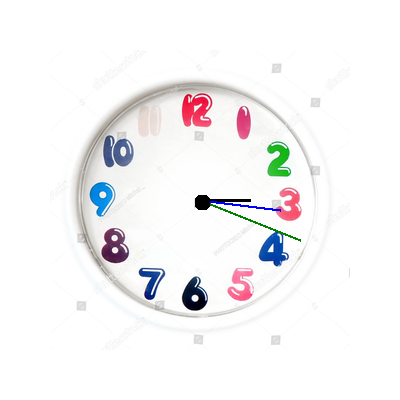
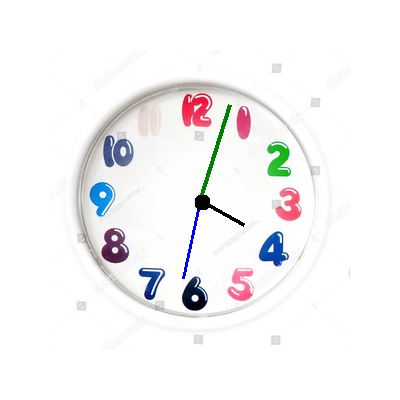
Analouge clock is added in login form

Changed region(s): [[0.48, 0.27, 0.69, 0.6], [0.66, 0.57, 0.75, 0.6], [0.45, 0.6, 0.48, 0.69]]

diff --git a/login.py b/login.py
@@ -1,5 +1,8 @@
 from tkinter import*
+from datetime import *
+import time
 from PIL import Image,ImageTk,ImageDraw
+from math import*
 class Clock():
     def __init__(self,root):
         self.root=root
@@ -8,10 +11,11 @@ class Clock():
         self.root.config(bg="#021e2f")
         title=Label(self.root,text="Login Page",font=("times new roman",50,"bold"),bg="#04444a",fg="white").place(x=0,y=50,relwidth=1)
         #label to place the clock image
-        self.lbl=Label(self.root,bg="white")
+        self.lbl=Label(self.root,bg="white",bd=10,relief=RAISED)
         self.lbl.place(x=450,y=150,height=400,width=400)
-        self.clock_image()
-    def clock_image(self):
+        # self.clock_image()
+        self.working_clock()
+    def clock_image(self,hr,min_,sec_):
         #for clock Image
         clock=Image.new("RGB",(400,400),(255,255,255)) #create new empty image first size secod color
         draw=ImageDraw.Draw(clock) # draw new image
@@ -20,18 +24,30 @@ class Clock():
         clock.paste(bg,(50,50))#paste the image on new image which is create
         
         # for hour line image
-        draw.line((200,200,250,200),fill="black",width=3)
+        #           x1,y1,x2,y2
+        origin=200,200
+        draw.line((origin,200+50*sin(radians(hr)),200-50*cos(radians(hr))),fill="black",width=4)
         #for min line image
-        draw.line((200,200,280,210),fill="blue",width=3)
+        draw.line((origin,200+80*sin(radians(min_)),200-80*cos(radians(min_))),fill="blue",width=3)
         #for sec line
-        draw.line((200,200,300,240),fill="green",width=3)
+        draw.line((origin,200+100*sin(radians(sec_)),200-100*cos(radians(sec_))),fill="green",width=4)
         #for circle in center
         draw.ellipse((195,195,210,210),fill="black")
         clock.save("clock_new.png")#save the image
 
+    def working_clock(self):
+        hour=datetime.now().time().hour
+        minutes=datetime.now().time().minute
+        seconds=datetime.now().time().second
+        hr=(hour/12)*360
+        min_=(minutes/60)*360
+        sec_=(seconds/60)*360
+        self.clock_image(hr,min_,sec_)
 
-
-
+        self.img=ImageTk.PhotoImage(file="clock_new.png")
+        self.lbl.config(image=self.img)
+        self.lbl.after(200,self.working_clock)
+        
 
 root=Tk()
 obj=Clock(root)
